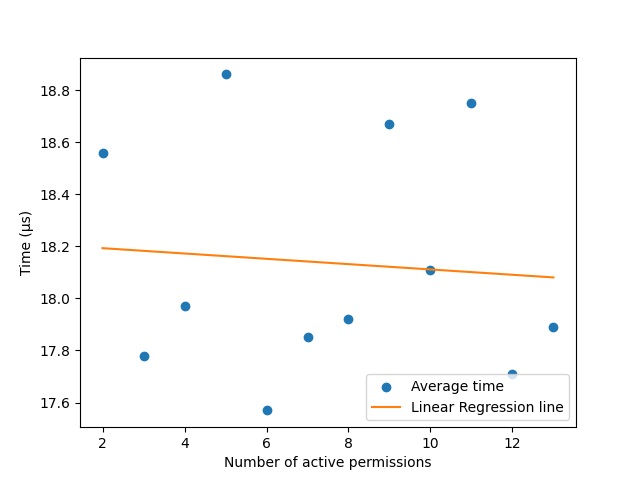
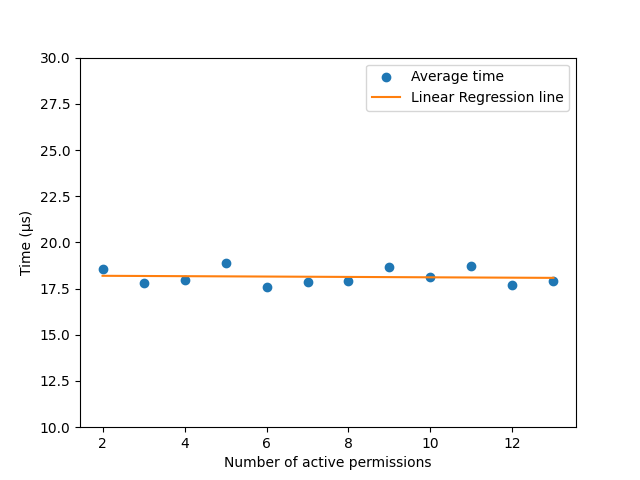
Fixed image scale

diff --git a/perf-landlock-helper.py b/perf-landlock-helper.py
@@ -73,7 +73,8 @@ for x in xs:
 b, a = np.polyfit(xs, means, deg=1)
 
 plt.figure()
-plt.scatter(xs, means)
+plt.ylim(10, 30)
+plt.scatter(xs, means, )
 plt.plot(xs, [a + b * x for x in xs], color='C1')
 plt.xlabel('Number of active permissions')
 plt.ylabel('Time (µs)')
